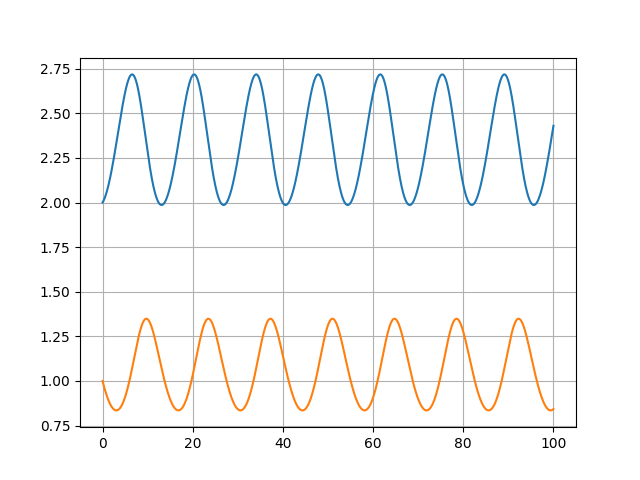
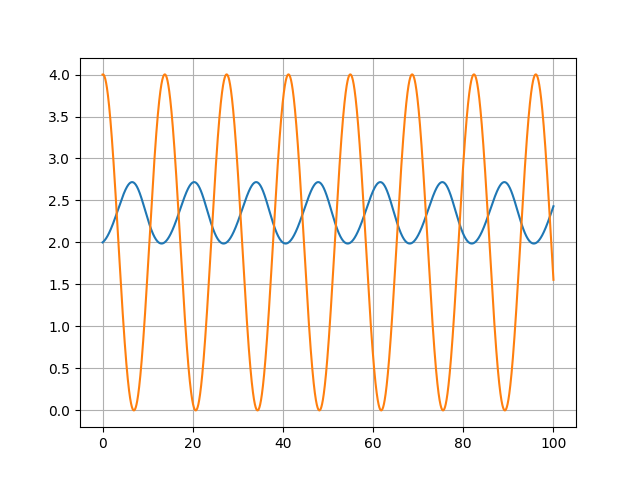
ver 0.6

diff --git a/main.py b/main.py
@@ -147,13 +147,21 @@ def doDots(r, t_max, h, alpha, beta, gamma, delta, method, name):
 
     return x_points, y_points, t_points
 
+def analytical(r, t_points, alpha, beta, gamma, delta):
+    x = r[0]
+    y = r[1]
+    w = math.sqrt(alpha * gamma)
+    A = x
+    B = (alpha * x - beta * x * y)/w
+    return A * np.cos(w * t_points) + B * np.sin(w * t_points) + x
+
 
 def draw_plot(r, t_max, h, alpha, beta, gamma, delta, method, name):
 
     x_points, y_points, t_points = doDots(r, t_max, h, alpha, beta, gamma, delta, method, name)
 
     plt.grid()
-    plt.plot(t_points, x_points, '-', t_points, y_points, '-')
+    plt.plot(t_points, x_points, '-', t_points, x_anal, '-' )
     plt.savefig('./two_graphs/' + name + '.png')
     plt.clf()
 
